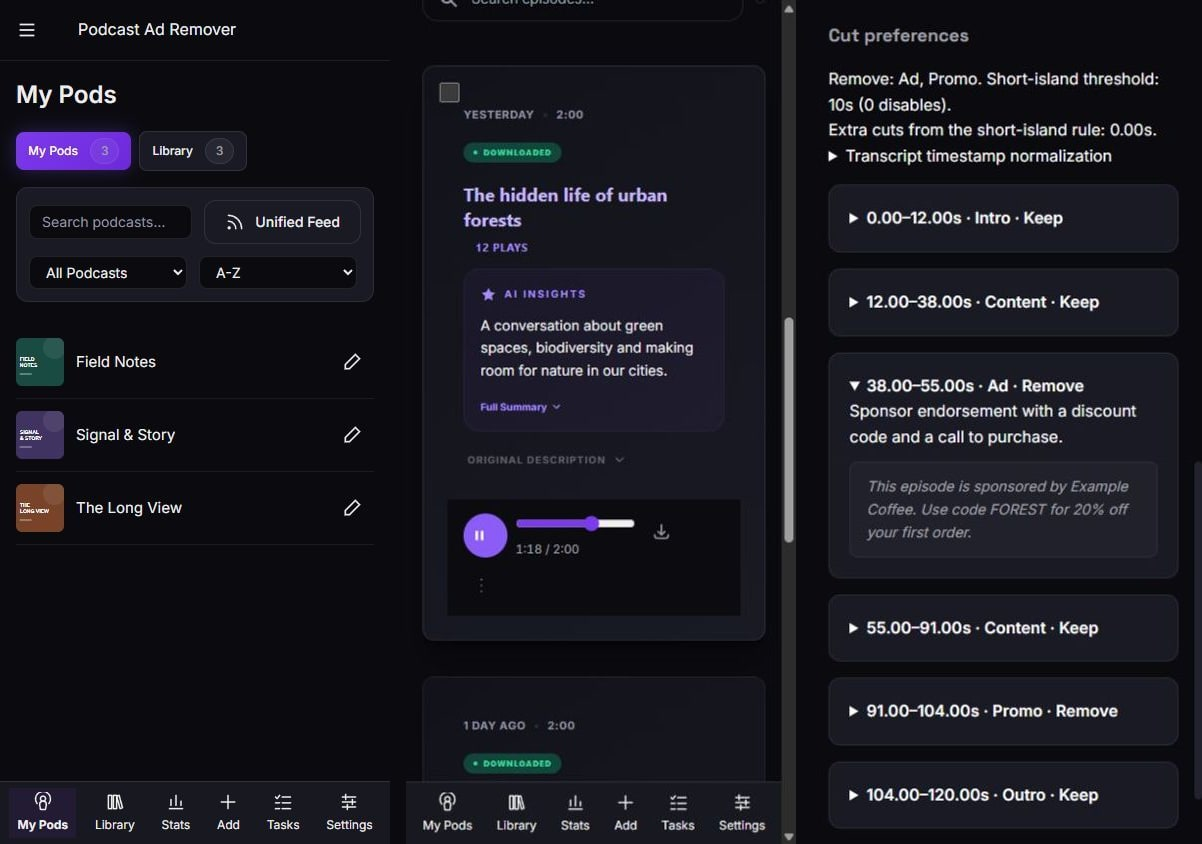
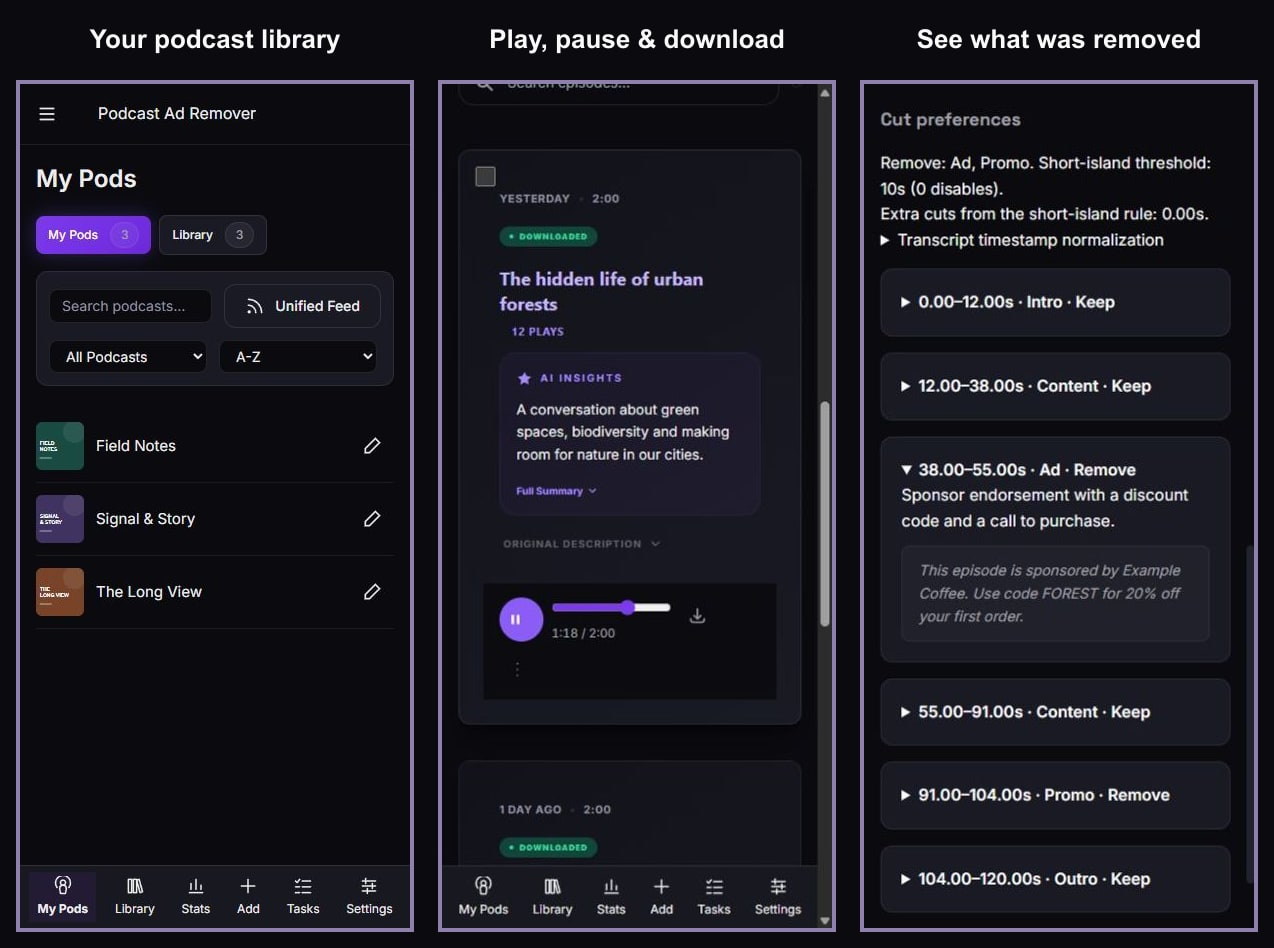
docs: label and frame the README app screenshots

Changed region(s): [[0.0, 0.0, 1.0, 1.0], [0.1847, 0.3697, 0.2155, 0.4005]]

diff --git a/Documentation/screenshots/README.md b/Documentation/screenshots/README.md
@@ -12,7 +12,8 @@ real application at revision `35c0e13` with a disposable demo library:
 
 The three source JPEGs were captured from a 390 × 844 phone-sized viewport.
 The README uses one linked 680-pixel-wide composite, keeping the views in a single
-row even on narrow screens. The 1202 × 844 composite is about 94 KB; click to enlarge.
+row even on narrow screens. The 1274 × 948 composite is about 120 KB; click to enlarge.
+Each screen has a contrasting border and a heading describing its feature.
 Names, artwork, summaries, report
 evidence and silent audio are synthetic. The report uses the app's real renderer,
 timestamp normalization and cut-preference logic; no model was called.
@@ -35,9 +36,12 @@ other rows collapsed so Keep and Remove decisions remain visible together.
 Review images for readable controls and private information
 before committing; retain descriptive alt text in the README.
 
-To rebuild the composite, size each source to 390 × 844 pixels,
-place them in library/playback/report order with 16-pixel dark gutters (`#0a0a0f`),
-and save as `v2-app-overview.jpg` at JPEG quality 88. Keep the source captures for
+To rebuild the composite, size each source to 390 × 844 pixels and add a 4-pixel
+border (`#9080ae`). Place them in library/playback/report order with 24-pixel
+gutters, 16-pixel outer margins and a dark background (`#0a0a0f`). Reserve a
+64-pixel heading band above the screens, using 26-pixel bold white text:
+**Your podcast library**, **Play, pause & download**, **See what was removed**.
+Save as `v2-app-overview.jpg` at JPEG quality 88. Keep the source captures for
 individual inspection; the README loads only the composite.
 
 ## Historical images

diff --git a/Documentation/V2_PROMOTION_REVIEW.md b/Documentation/V2_PROMOTION_REVIEW.md
@@ -103,7 +103,8 @@ local Docker build. All 63 checked local documentation/image links resolve;
 `git diff --check` passed. Demo pages/artwork returned HTTP 200 and writes were
 rejected with HTTP 405. Three JPEGs captured at a 390 × 844 viewport total 91297
 bytes. The README displays one linked 680-pixel-wide side-by-side composite
-(93992 bytes), so the phone views cannot wrap into a tall stack. The report shows timestamped
+(119594 bytes), with clear borders and feature headings, so the phone views cannot
+wrap into a tall stack. The report shows timestamped
 Keep/Remove classifications with one ad expanded to reveal its reason and text.
 The final versioned candidate still requires release qualification.
 No paid inference, live migration, image push or deployment is part of this refresh.

diff --git a/Documentation/CHANGELOG.md b/Documentation/CHANGELOG.md
@@ -38,7 +38,8 @@ move existing audio until explicitly requested.
   library, inline playback/summaries and timestamped classification report, with
   a removed ad expanded to show its reason and transcript. Use disposable demo
   data and the real report renderer. Present them in one compact horizontal image
-  so the README does not stack the phone views. Reconcile V2 release notes and promotion
+  with contrasting borders and feature headings so the README does not stack the
+  phone views. Reconcile V2 release notes and promotion
   evidence with the tested player build.
 - Put normal Docker installation and source-build instructions before the
   optional installation wizard in the README and V2 release notes.
